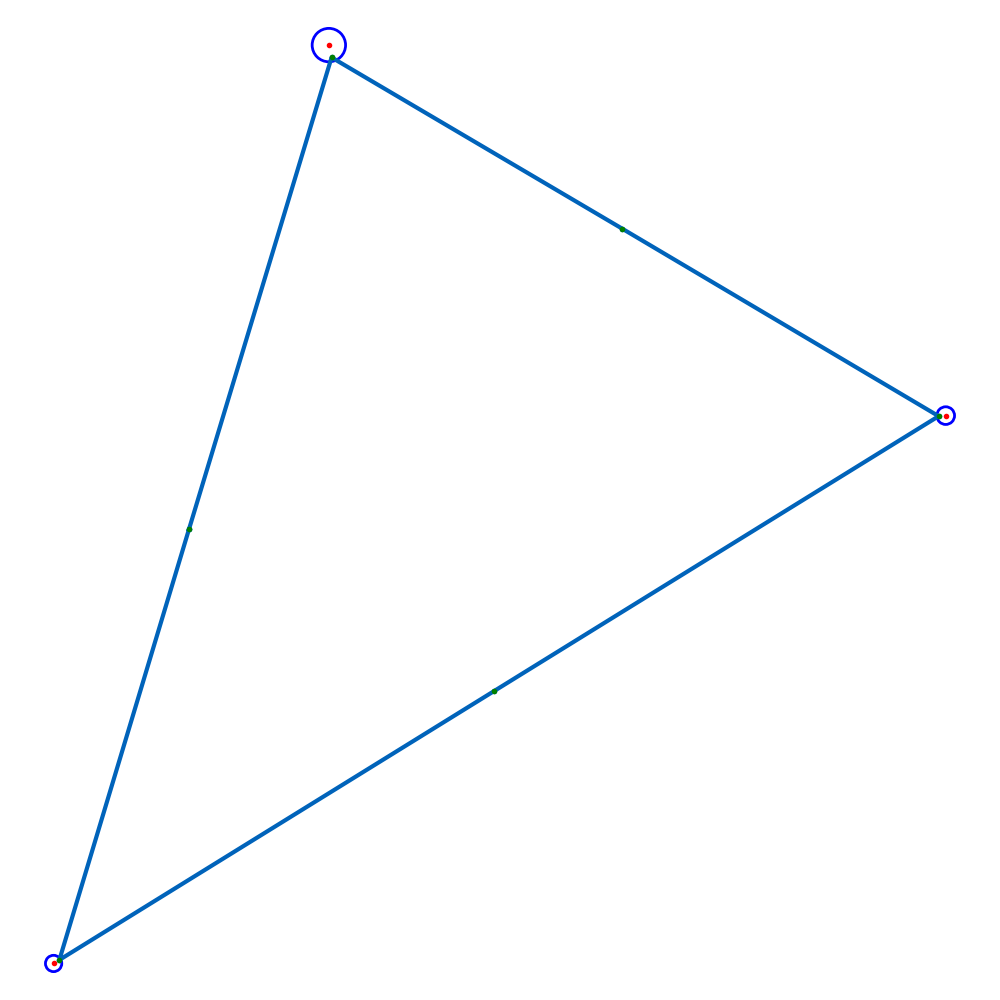
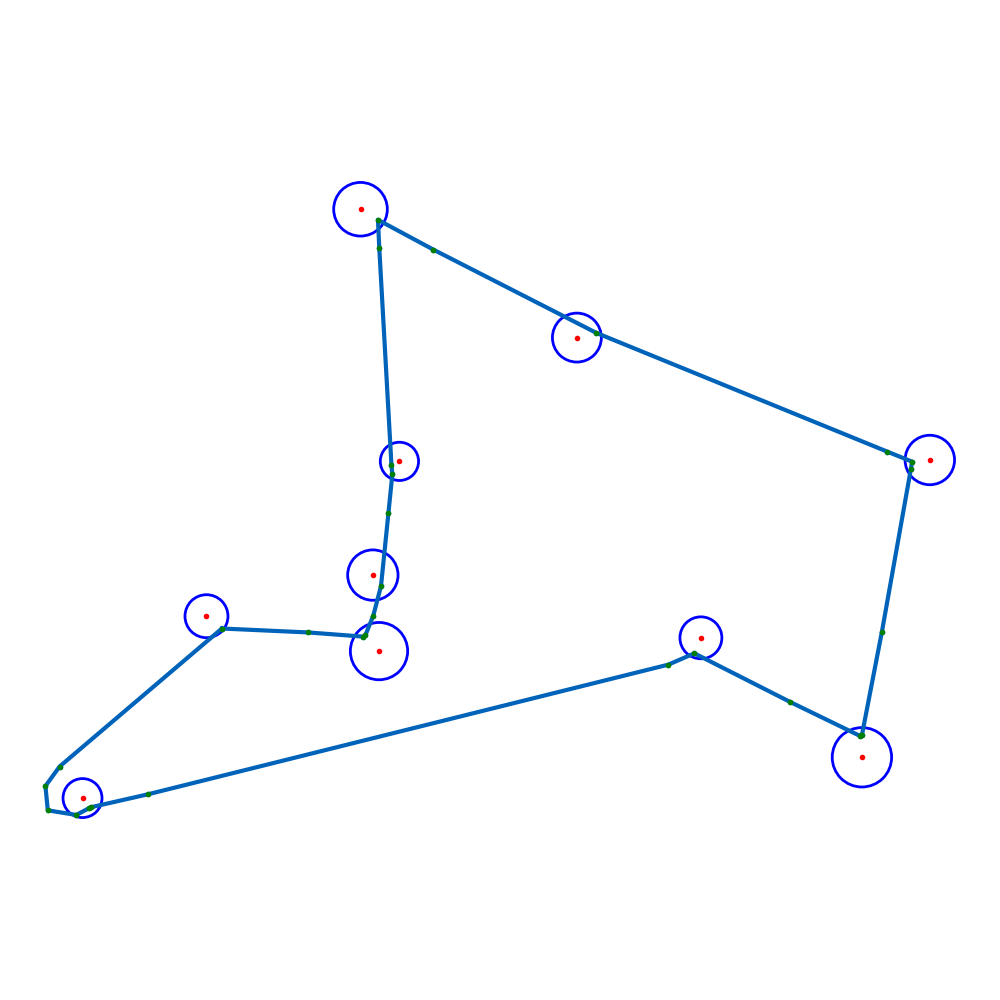
SOM region vs 1.1 Test new map

diff --git a/src/create_circle.py b/src/create_circle.py
@@ -1,10 +1,10 @@
 import random
 MIN_POS = 20
 MAX_POS = 980
-MAX_RADIUS = 15
-MIN_RADIUS = 5
+MAX_RADIUS = 35
+MIN_RADIUS = 20
 MAX_SIZE = 1000
-MAX_REWARD = 20
+MAX_REWARD = 10
 MIN_REWARD = 1
 filename = "assets/circles.txt"
 with open(filename, "w") as file:
@@ -12,5 +12,5 @@ with open(filename, "w") as file:
         x = round(random.uniform(MIN_POS, MAX_POS), 4)
         y = round(random.uniform(MIN_POS, MAX_POS), 4)
         r = round(random.uniform(MIN_RADIUS, MAX_RADIUS), 4)
-        reward = random.randint(MIN_RADIUS, MAX_REWARD)
+        reward = random.randint(MIN_REWARD, MAX_REWARD)
         file.write(f"{_ + 1} {x} {y} {r} {reward}\n")
